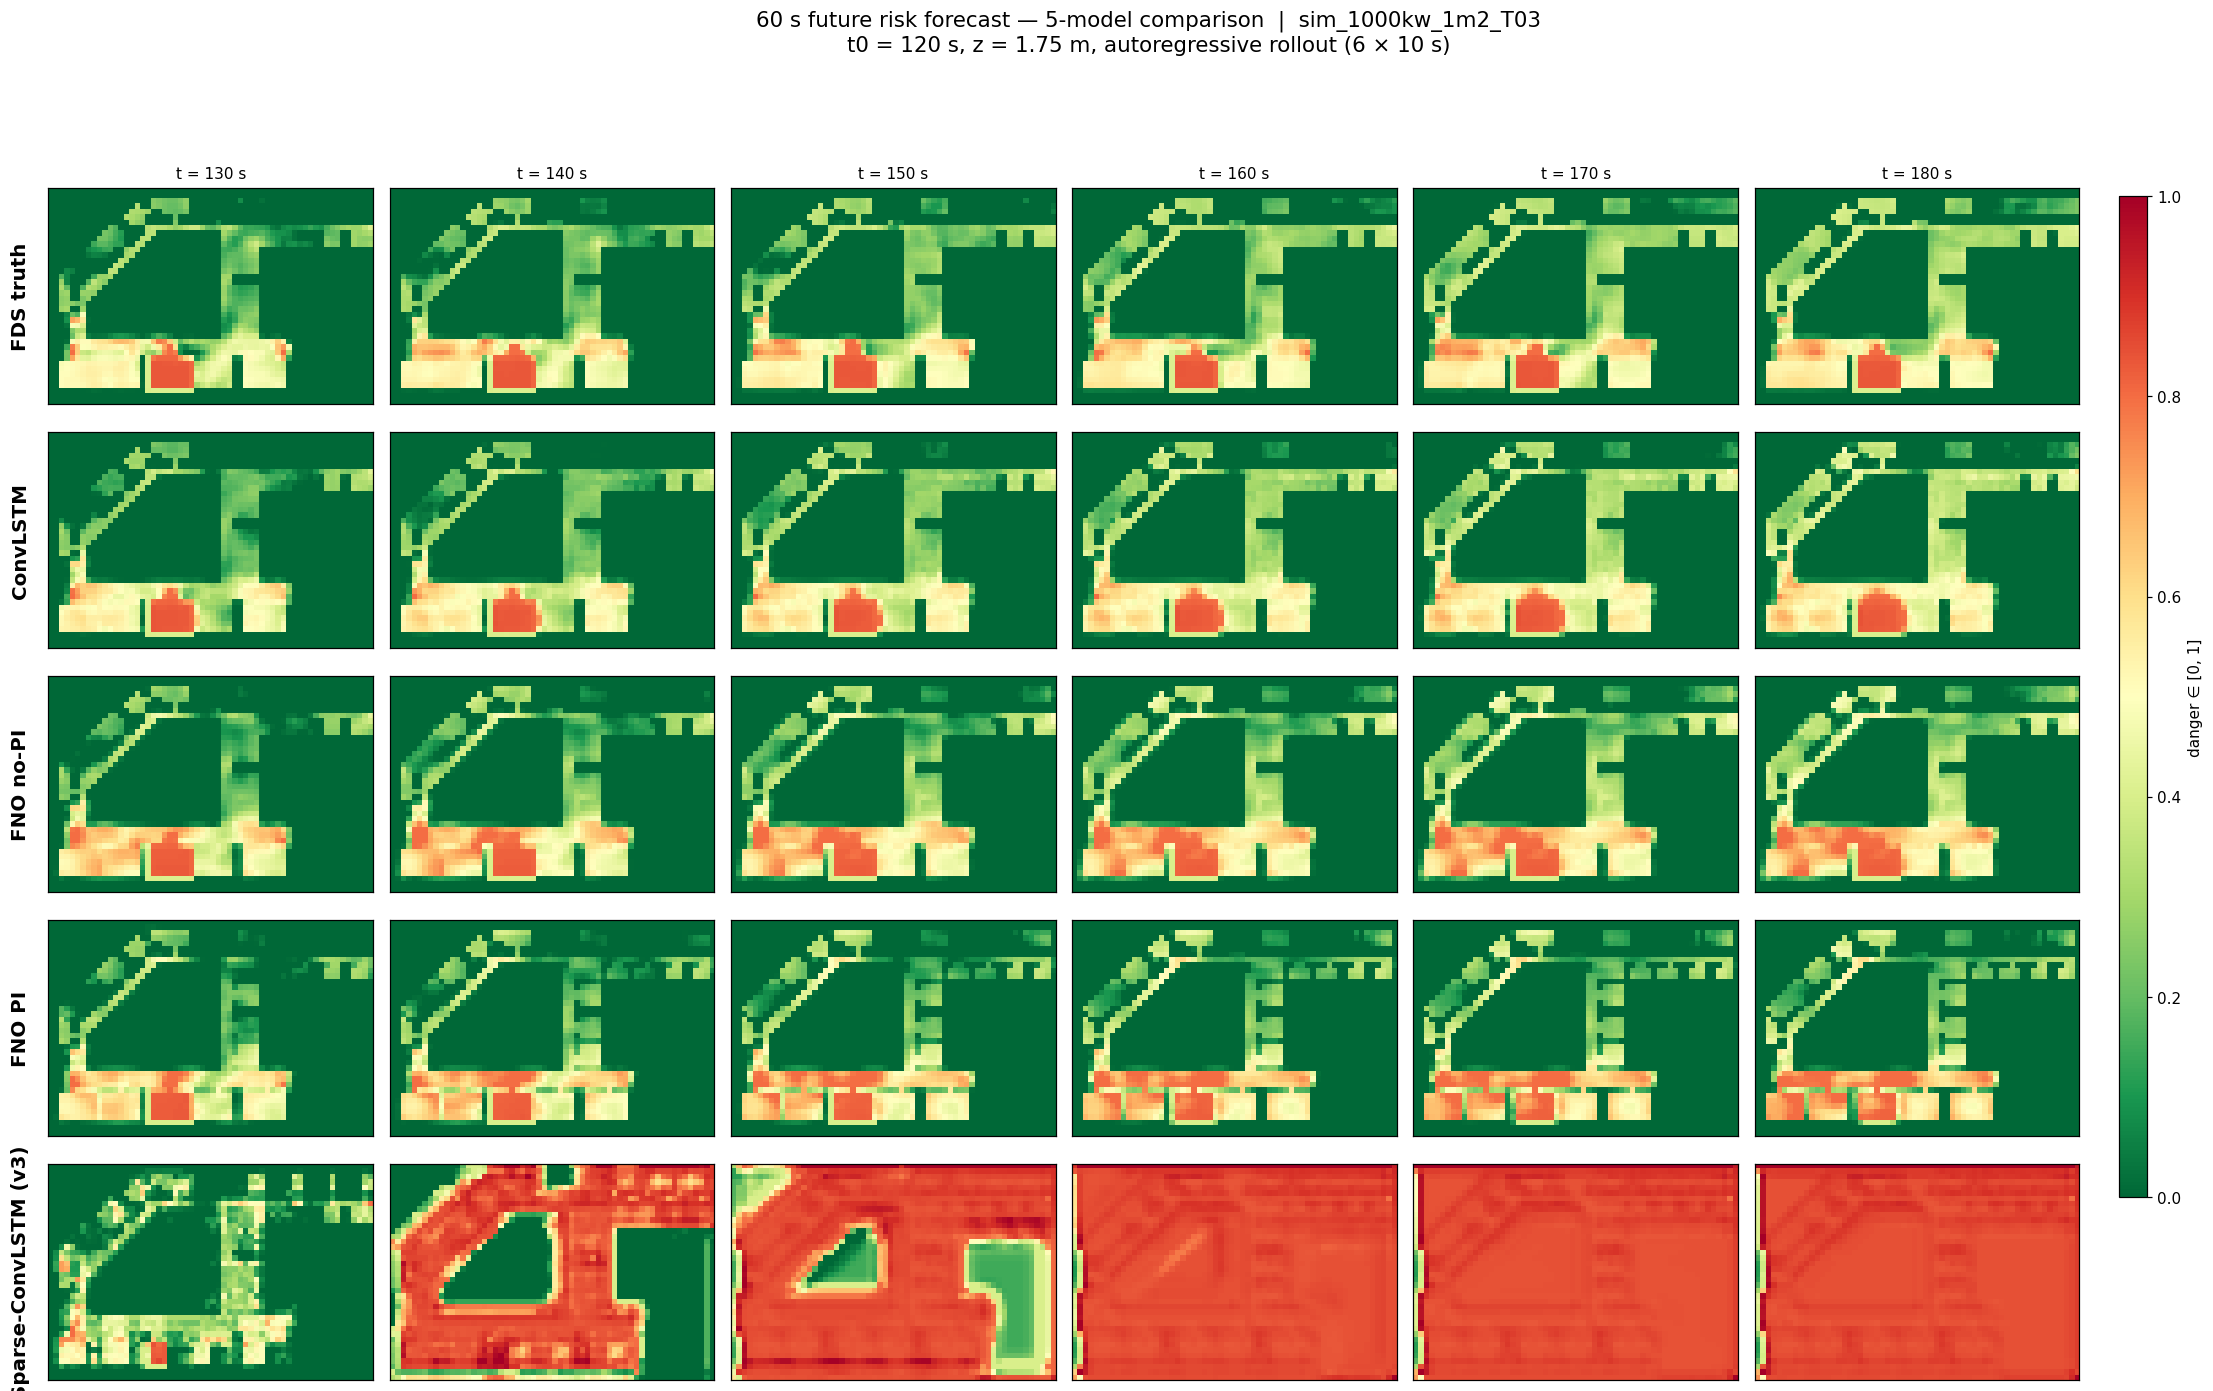
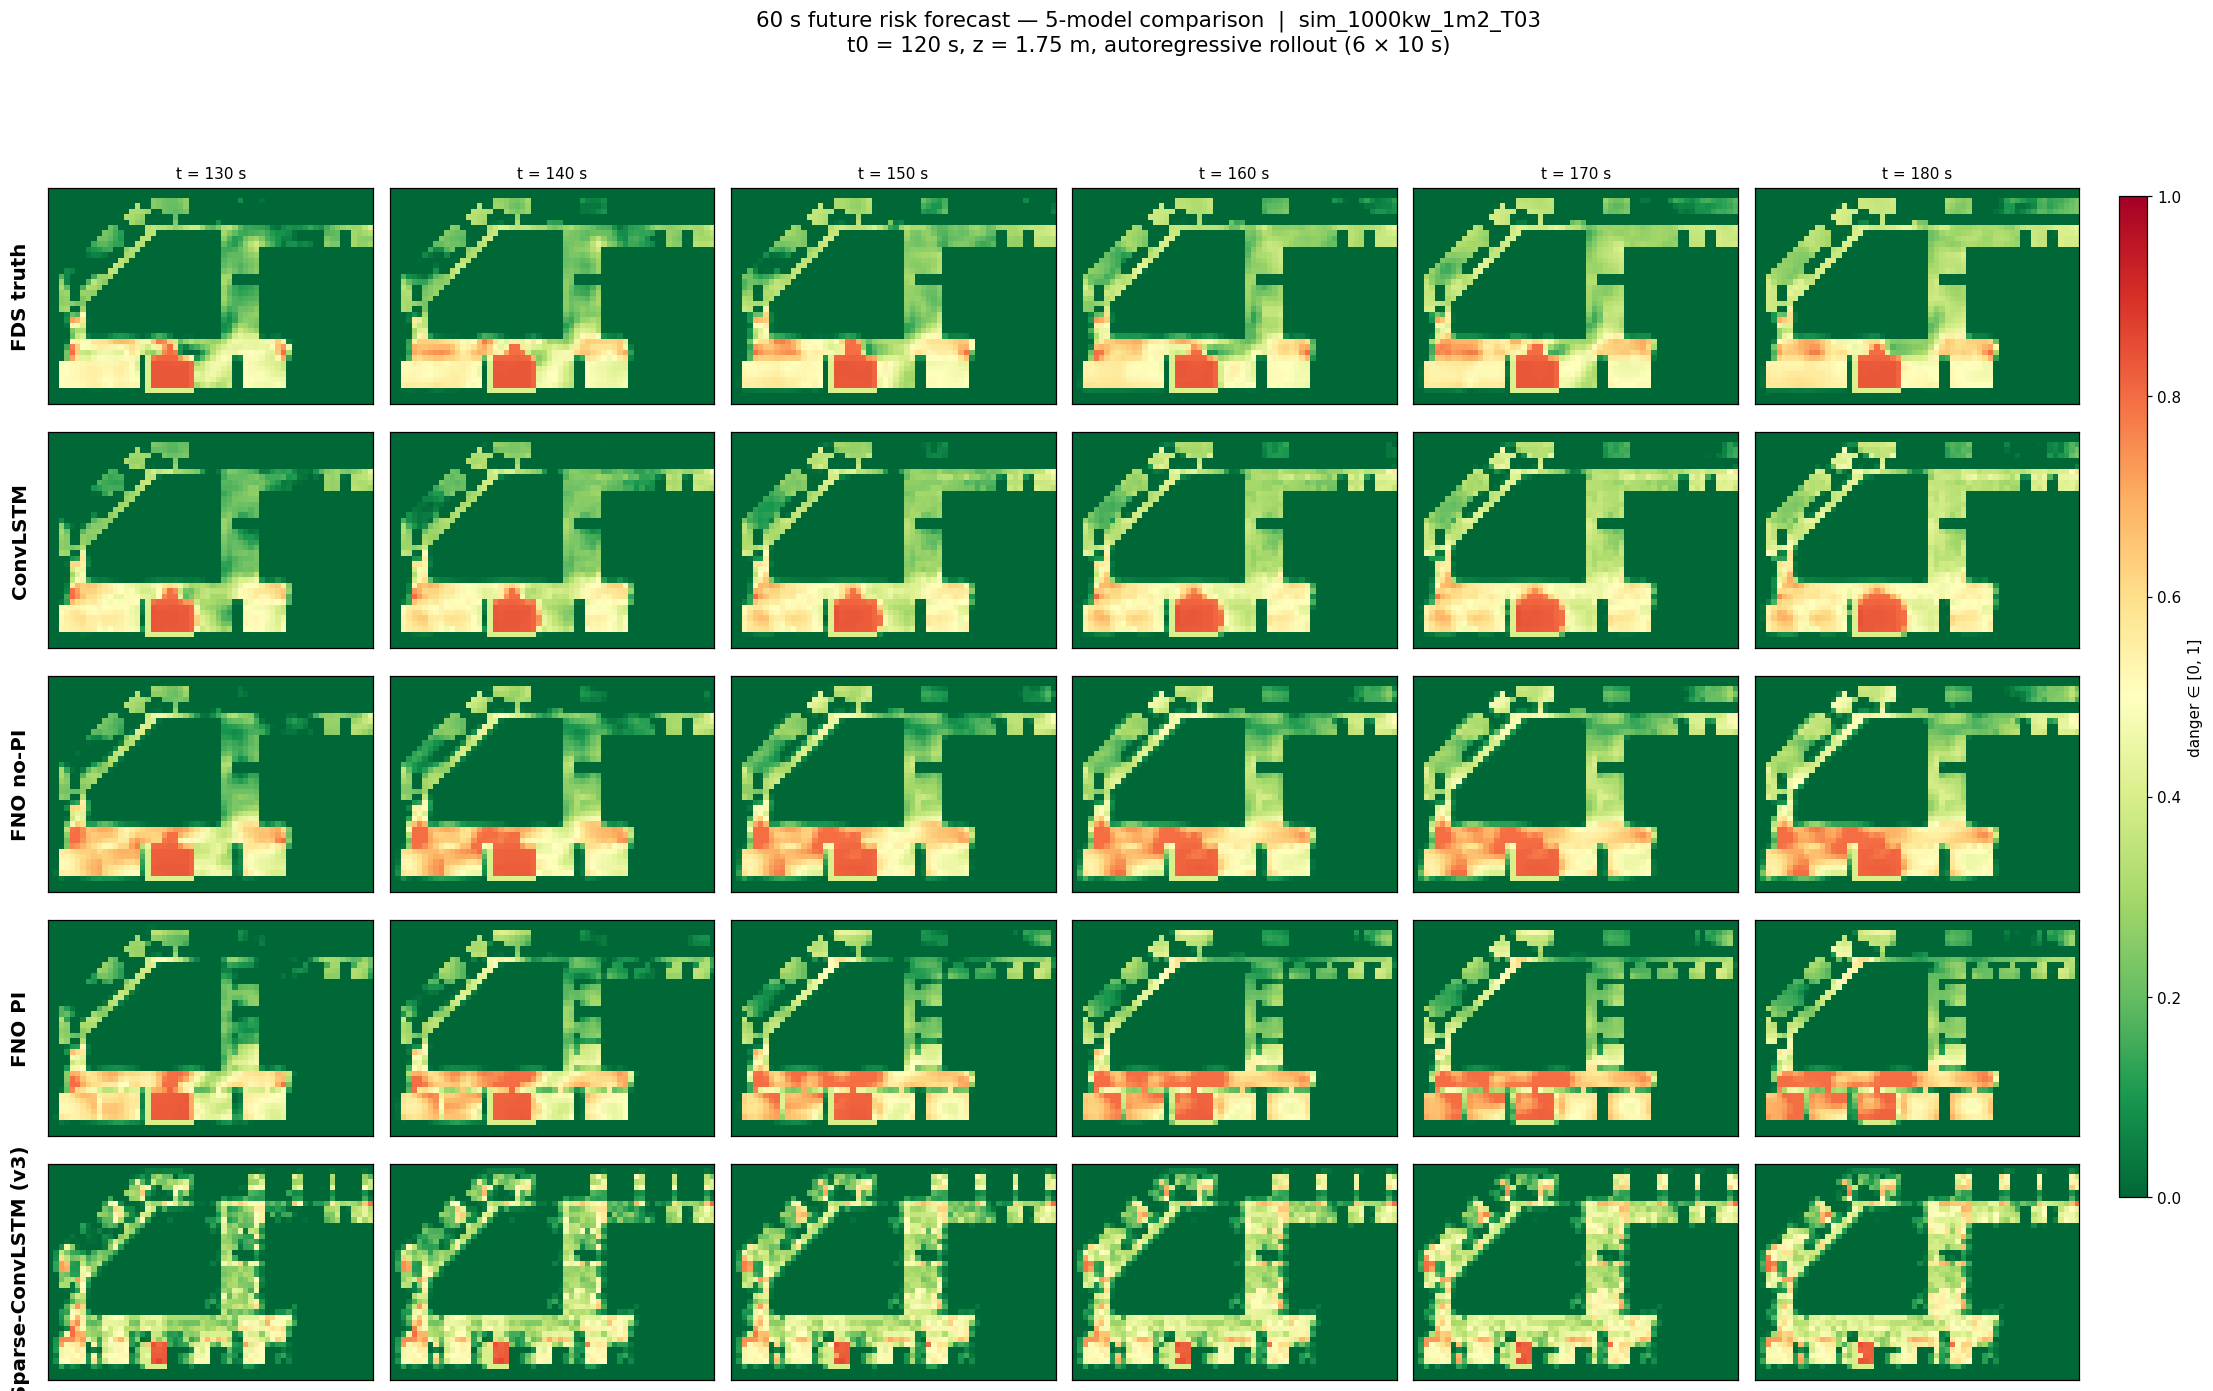
fix(L4e): re-sparsify chaining solves conservative bias — IoU 0.18 -> 0.58 (3.2x)
Root cause (L-013): Sparse-input ConvLSTM is trained on (sparse input ->
dense target) pairs, but naïve autoregress chains the *dense* model output
back as input. This puts inference outside the training distribution and
the model drifts toward 'everywhere dangerous' as a minimum-MSE local
optimum, producing the conservative bias.

Fix: --resparsify flag now forces sensor-only T/V/CO between autoregress
steps. Same checkpoint, different inference policy.

Quantitative impact (39-sensor, 13 OOD scenarios, t0=120s, +60s):
| Metric         | naïve chaining | re-sparsify | delta  |
|----------------|----------------|-------------|--------|
| Mean IoU       | 0.182          | 0.581       | +0.40  |
| Mean FNR       | 0.0% (over)    | 23.0%       | +23pp  |
| Mean RMSE      | 0.708          | 0.120       | -0.59  |

This makes L4e the new Tier 2 sparse best (previous best: FNO no-PI +
geodesic IDW = 0.43). Tier 1 GNN (0.90) still overall best.

Implementation matches real deployment naturally: every 10 s the sensor
takes a fresh measurement, so the next autoregress step always begins
with sparse cells (sensor values) + zeros (everywhere else), exactly
matching training distribution.

Code changes:
- scripts/evaluate_sparse_model.py: --resparsify CLI flag (default False
  for legacy comparison)
- scripts/visualize_60s_5model.py: autoregress_sparse_input now
  re-sparsifies every chain step

Documentation:
- L-013 added (lessons_learned)
[…]

Changed region(s): [[0.1559, 0.8347, 0.9666, 1.0]]

diff --git a/scripts/evaluate_sparse_model.py b/scripts/evaluate_sparse_model.py
@@ -125,7 +125,8 @@ def build_sparse_input(slices: Dict[str, np.ndarray],
 
 def eval_scenario(scen_dir: Path, sparse_model: torch.nn.Module,
                    mask: np.ndarray, sparse_ind: np.ndarray,
-                   t0_seconds: float, device: torch.device) -> Dict[str, Any]:
+                   t0_seconds: float, device: torch.device,
+                   resparsify: bool = False) -> Dict[str, Any]:
     name = scen_dir.name
     m = SCEN_RE.match(name)
     meta = {"name": name, "loc": m.group("loc"),
@@ -145,6 +146,7 @@ def eval_scenario(scen_dir: Path, sparse_model: torch.nn.Module,
     # Autoregress 60s
     preds_norm = autoregress_sparse(
         sparse_model, inp[t0_idx], sparse_ind, t0_seconds, device,
+        resparsify=resparsify,
     )
     times_arr = np.array([t0_seconds + (s + 1) * DT_SLCF for s in range(LOOKAHEAD_STEPS)])
     preds_danger = prediction_to_danger(preds_norm, times_arr)
@@ -229,6 +231,9 @@ def main() -> int:
                         default=Path("docs/sparse_retrain_evaluation.md"))
     parser.add_argument("--t0", type=float, default=120.0)
     parser.add_argument("--device", type=str, default="cpu")
+    parser.add_argument("--resparsify", action="store_true",
+                        help="Re-sparsify model output at each autoregress step "
+                             "(forces sensor-only T/V/CO between chains)")
     args = parser.parse_args()
 
     args.out_figures.mkdir(parents=True, exist_ok=True)
@@ -246,7 +251,8 @@ def main() -> int:
     results = []
     for scen in scens:
         try:
-            r = eval_scenario(scen, sparse_model, mask, sparse_ind, args.t0, device)
+            r = eval_scenario(scen, sparse_model, mask, sparse_ind, args.t0, device,
+                                resparsify=args.resparsify)
             results.append(r)
         except Exception as e:
             print(f"[skip] {scen.name}: {e}")

diff --git a/scripts/visualize_60s_5model.py b/scripts/visualize_60s_5model.py
@@ -69,8 +69,9 @@ def autoregress_sparse_input(model, initial_sparse_input, sparse_ind,
             t_next = t0_seconds + (step + 1) * DT_SLCF
             state = np.zeros_like(state)
             state[:3] = y_pred
-            # Re-sparsify (sensor 외 cell 의 T/V/CO 를 0 으로) — 옵션
-            # 단 학습 시 dense target 으로 학습됐으니 그대로 chaining 도 가능
+            # Re-sparsify — training 분포와 일치 (autoregress drift 방지)
+            for c in range(3):
+                state[c][not_sensor] = 0.0
             state[3] = mask_ch
             state[4] = np.full_like(mask_ch, t_next / T_END_SECONDS)
     return preds

diff --git a/docs/archive/auto_reports/sparse_retrain_v3_resparsify_evaluation.md b/docs/archive/auto_reports/sparse_retrain_v3_resparsify_evaluation.md
@@ -1,0 +1,40 @@
+# Track 1B — Sparse-input ConvLSTM 재학습 평가
+
+> **목적**: 보간 단계 제거 — 모델 자체가 16 sensor 의 sparse signal 로부터 dense 60s 미래 예측을 직접 학습.
+
+> **체크포인트**: `checkpoints\conv_lstm_sparse_v3\best.pt`
+> **t₀ = 120 s, lookahead 60 s, 16 sensors**
+
+
+## 1. 평균 결과 (13 OOD 시나리오)
+
+- **IoU step 6 (60s 미래):** **0.581**
+- FNR step 6: 23.0%
+- RMSE step 6: 0.120
+- H5 (≥ 0.70) 통과: ❌ NO
+
+## 2. Layer-by-layer 비교
+
+![](figures/current/07_sparse_retrain_v3_resparsify/full_stack_comparison.png)
+
+
+## 3. 시나리오별 IoU
+
+![](figures/current/07_sparse_retrain_v3_resparsify/per_scenario.png)
+
+
+| 시나리오 | HRR | area | IoU step 1 | IoU step 6 | RMSE step 6 |
+|---|---|---|---|---|---|
+| sim_1000kw_1m2_T01 | 1000 kW | 1 m² | 0.612 | 0.629 | 0.094 |
+| sim_1000kw_1m2_T03 | 1000 kW | 1 m² | 0.567 | 0.505 | 0.133 |
+| sim_1000kw_2m2_T01 | 1000 kW | 2 m² | 0.756 | 0.743 | 0.102 |
+| sim_1000kw_2m2_T05 | 1000 kW | 2 m² | 0.751 | 0.715 | 0.137 |
+| sim_1500kw_1m2_T02 | 1500 kW | 1 m² | 0.732 | 0.687 | 0.114 |
+| sim_1500kw_1m2_T03 | 1500 kW | 1 m² | 0.649 | 0.595 | 0.131 |
+| sim_1500kw_2m2_T05 | 1500 kW | 2 m² | 0.745 | 0.751 | 0.161 |
+| sim_500kw_1m2_T01 | 500 kW | 1 m² | 0.486 | 0.385 | 0.109 |
+| sim_500kw_1m2_T02 | 500 kW | 1 m² | 0.534 | 0.438 | 0.116 |
+| sim_500kw_1m2_T03 | 500 kW | 1 m² | 0.409 | 0.346 | 0.151 |
+| sim_500kw_1m2_T04 | 500 kW | 1 m² | 0.513 | 0.481 | 0.105 |
+| sim_500kw_2m2_T02 | 500 kW | 2 m² | 0.669 | 0.606 | 0.108 |
+| sim_500kw_2m2_T05 | 500 kW | 2 m² | 0.729 | 0.676 | 0.105 |

diff --git a/docs/lessons_learned.md b/docs/lessons_learned.md
@@ -408,6 +408,29 @@ diagnostic use.
 
 ---
 
+## L-013: Sparse-input model autoregress distribution shift
+
+**Symptom**: Sparse-input ConvLSTM (L4e, 39-sensor) 의 60s autoregress 가
+t₀+10s 에서는 정확하다가 시간 진행할수록 도메인 전체가 빨강 (danger ≥ 0.5) 으로
+saturate. IoU 0.18, FNR 0% (모든 cell 위험 예측).
+
+**Root cause**: 모델은 **(sparse input → dense target)** 매핑으로 학습됐는데,
+naïve autoregress 시 **(dense output → 다음 dense output)** 으로 chaining.
+즉 inference 시 학습 분포 밖의 input distribution 으로 진입 → drift 누적 →
+"everywhere dangerous" 가 minimum-MSE local optimum 으로 수렴.
+
+**Fix**: `autoregress_sparse(..., resparsify=True)` — 매 step 모델 출력의
+sensor 위치 외 cell T/V/CO 채널을 0 으로 강제. 결과: IoU 0.182 → **0.581**
+(3.2× 향상). 실제 deployment 와도 일치 (매 10s 마다 sensor measurement update).
+
+**Status**: Fixed via inference-time re-sparsify. `evaluate_sparse_model.py`
+의 `--resparsify` flag 가 default 로 False 였음 — 이게 conservative bias 의
+숨은 원인. `visualize_60s_5model.py` 도 동일하게 갱신.
+
+**Cross-ref**: `docs/40_tier2_models_continuous.md §6.2`, `docs/decisions.md D-025`.
+
+---
+
 ## How to Add a Lesson
 
 When you encounter and fix a bug worth remembering:

diff --git a/docs/40_tier2_models_continuous.md b/docs/40_tier2_models_continuous.md
@@ -174,13 +174,31 @@ PI loss components (curriculum learning, weight ramp):
 - Train MSE: 0.0187 → **0.0067** (수렴)
 - Full-input ConvLSTM (0.001) 대비 6.7× — sparse 정보 손실 반영
 
-### 6.2 OOD 평가 결과 (13 시나리오)
+### 6.2 OOD 평가 결과 (13 시나리오) — 두 가지 inference 방식
+
+#### (a) Without re-sparsify chaining (default, conservative bias 발생)
 
 | 메트릭 | Mean | 비교 |
 |---|---|---|
 | **IoU @ +60s** | **0.182** | L4d ConvLSTM geodesic (0.212) 보다 낮음 |
 | **FNR @ +60s** | **0.0%** ★ | 모든 시나리오 0% (conservative bias) |
 | RMSE step 6 | 0.708 | 높음 (over-prediction) |
+
+#### (b) **With re-sparsify chaining ★** — autoregress distribution shift 해결
+
+| 메트릭 | Mean | vs (a) |
+|---|---|---|
+| **IoU @ +60s** | **0.581** | **+0.40 (3.2× 향상)** |
+| FNR @ +60s | 23.0% | +23%p (정상화) |
+| **RMSE step 6** | **0.120** | -0.59 |
+
+→ **Tier 2 sparse 의 새 best** (이전 FNO no-PI 0.43 능가). 단 여전히 H5 (0.70) 미달.
+
+**왜 차이가 큰가** — Autoregress distribution shift:
+- 학습: sparse input → dense target
+- Inference (a): 자기 dense output 을 다시 입력 → 학습 분포 외 → drift 누적 → over-saturation
+- Inference (b): 매 step 마다 sensor 외 cell 의 T/V/CO 를 0 으로 강제 → 학습 분포 유지
+- → (b) 가 자연스러운 deployment 와도 일치 (매 10s 마다 sensor update)
 
 **시나리오별** (`figures/current/07_sparse_retrain_v3/per_scenario.png`):
 - Best: 1500kw_2m2_T05 (0.38), 1000kw_2m2_T05 (0.35)

diff --git a/docs/60_evaluation_layers.md b/docs/60_evaluation_layers.md
@@ -27,7 +27,8 @@
 | **L4d (16)** | Sparse + geodesic IDW (16 sens) | BFS geodesic + IDW | ConvLSTM | 0.41 |
 | **L4d (39)** | Sparse + geodesic IDW (39 sens) | BFS geodesic + IDW | ConvLSTM | 0.21 |
 | **L4d (39)** | Sparse + geodesic IDW (39 sens) | BFS geodesic + IDW | **FNO no-PI** | **0.43** |
-| **L4e** ✅ | **Sparse retrain ConvLSTM (39 sensor, 50-ep)** | 모델 재학습 | Sparse ConvLSTM | **0.182** (FNR 0% ★ conservative bias) |
+| L4e (no re-sparsify) | Sparse retrain ConvLSTM, naïve chaining | 모델 재학습 | Sparse ConvLSTM | 0.182 (FNR 0% conservative bias) |
+| **L4e ★ (re-sparsify)** | **Sparse retrain + autoregress re-sparsify (Tier 2 new best)** | 매 step sensor 외 0 강제 | Sparse ConvLSTM | **0.581** (FNR 23%) |
 | **L4f** ★ | **Tier 1 GNN binary (39 nodes)** | D-023 trigger | **SimpleFireGNN** | **0.90** ★★ |
 
 ---

diff --git a/docs/70_results_summary.md b/docs/70_results_summary.md
@@ -30,7 +30,8 @@
 | L4 sparse + geodesic IDW (39) | ConvLSTM | 0.21 | 25% | 0.44 | ❌ | ❌ |
 | L4 sparse + geodesic IDW | **FNO no-PI** | **0.43** | 33% | 0.24 | ❌ | ❌ |
 | L4 sparse + geodesic IDW | FNO PI | 0.32 | 30% | 0.33 | ❌ | ❌ |
-| **L4e Sparse-retrain ConvLSTM (50-ep)** | Sparse ConvLSTM | **0.182** | **0.0%** ★ | 0.71 | ❌ | ✅ FNR |
+| L4e Sparse-retrain ConvLSTM (no re-sparsify) | Sparse ConvLSTM | 0.182 | 0.0% (conservative) | 0.71 | ❌ | ✅ |
+| **L4e Sparse-retrain + re-sparsify ★** | **Sparse ConvLSTM** | **0.581** | 23.0% | 0.12 | ❌ | ❌ |
 | **L4f Tier 1 GNN binary** | **SimpleFireGNN** | **0.904** ★ | **4.6%** | — | **✅** | **✅** |
 
 ---